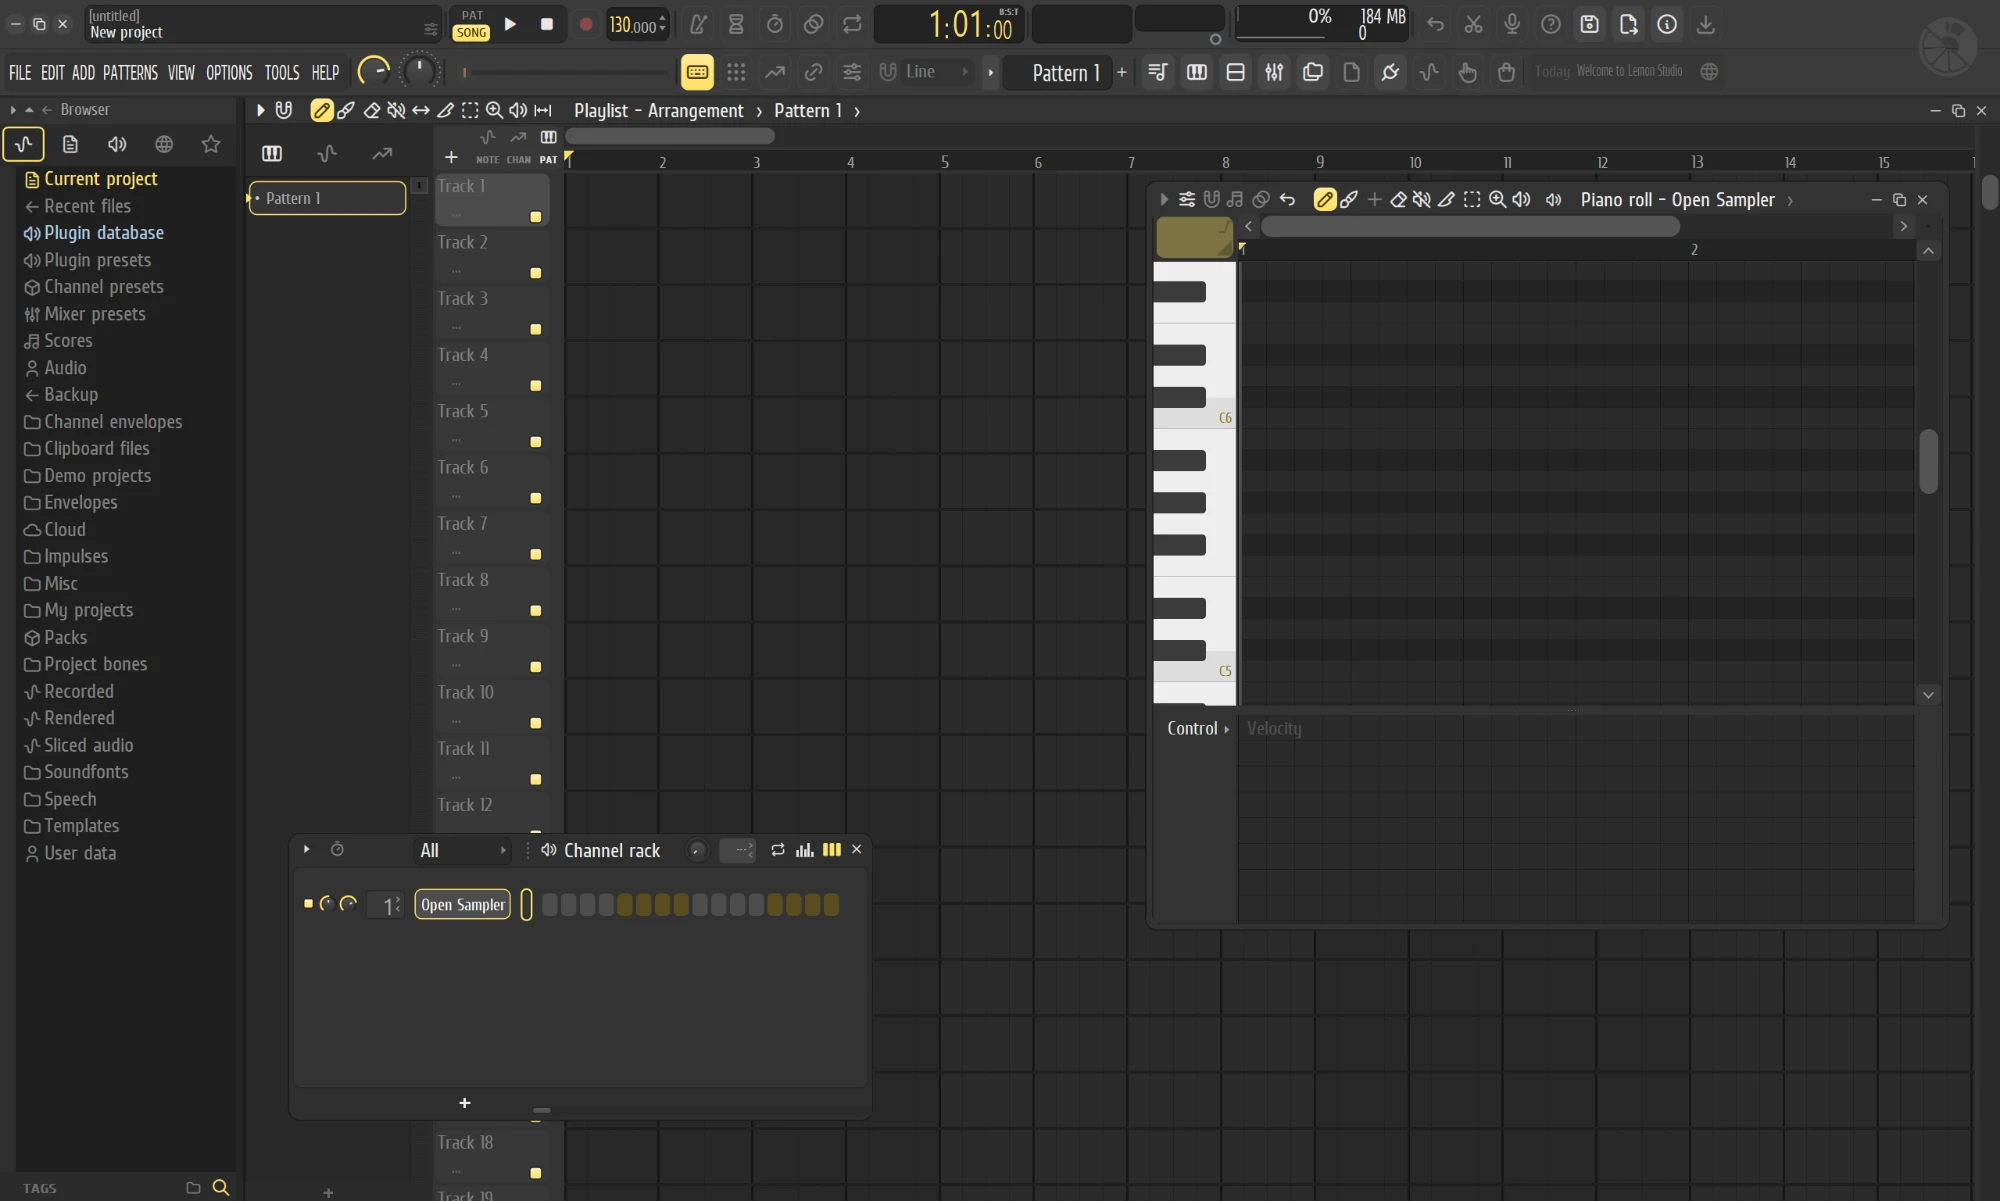
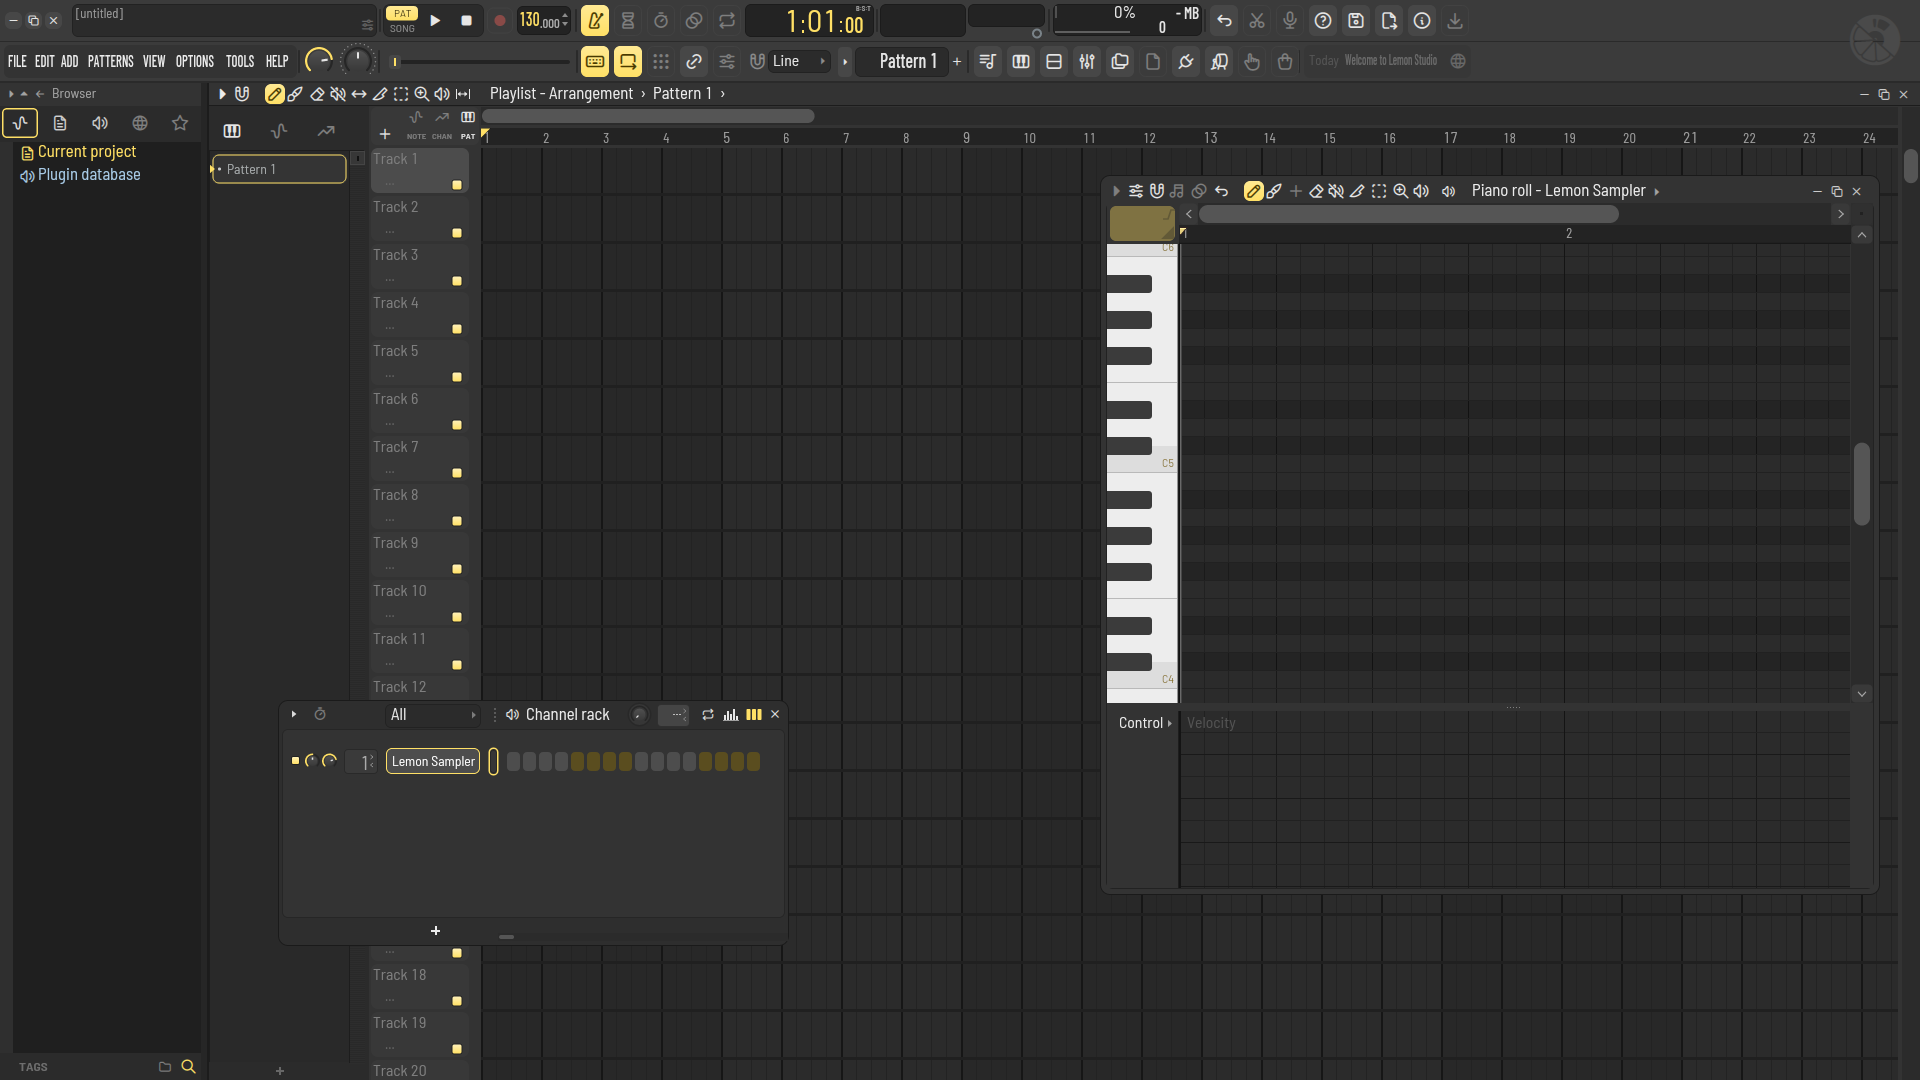
README: new cover screenshot, piano roll and playlist shots
The cover is a fresh 1920x1080 render of the current Lemon design with
the browser, playlist, channel rack and piano roll open. Under the
Capabilities table, two shots side by side show the piano roll (a
two-handed piano part with note names and the velocity lane) and a
64-bar song on the playlist (pattern, audio and automation clips under
section markers). Both show the demo project from the os-flp example,
which is all original. The images are lossless WebP renders from
`lemonstudio --screenshot`:

  cover:      --float piano:1100,175,780,720 --rack-pos 278,700
  piano roll: --wait --view piano --no-rack --browser-tab 1 --pattern 12 --channel 10 <demo>
  playlist:   --wait --no-rack --browser-tab 1 --bar-w 22 <demo>

where <demo> is the project `cargo run -p os-flp --example demo_project -- <dir>` writes.

diff --git a/README.md b/README.md
@@ -96,6 +96,17 @@ Where Lemon Studio stands against what a complete DAW offers:
 
 ✅ usable · 🚧 partial · ❌ not available yet
 
+<table>
+  <tr>
+    <td width="50%"><a href="docs/assets/screenshot-piano-roll.webp"><img alt="The piano roll with a two-handed piano part: chords under a melody, with note names and the velocity lane" src="docs/assets/screenshot-piano-roll.webp"></a></td>
+    <td width="50%"><a href="docs/assets/screenshot-playlist.webp"><img alt="The playlist with a 64-bar song arranged from pattern, audio and automation clips under section markers" src="docs/assets/screenshot-playlist.webp"></a></td>
+  </tr>
+  <tr>
+    <td align="center"><sub>Piano roll: chords and a melody with their note names, and the velocity lane below</sub></td>
+    <td align="center"><sub>Song arrangement: pattern, audio and automation clips under section markers</sub></td>
+  </tr>
+</table>
+
 Per-area details are in [docs/status.md](docs/status.md). The full, item-by-item roadmap lives on the
 [Discord server](https://discord.gg/yC2uCuGs3M).
 
